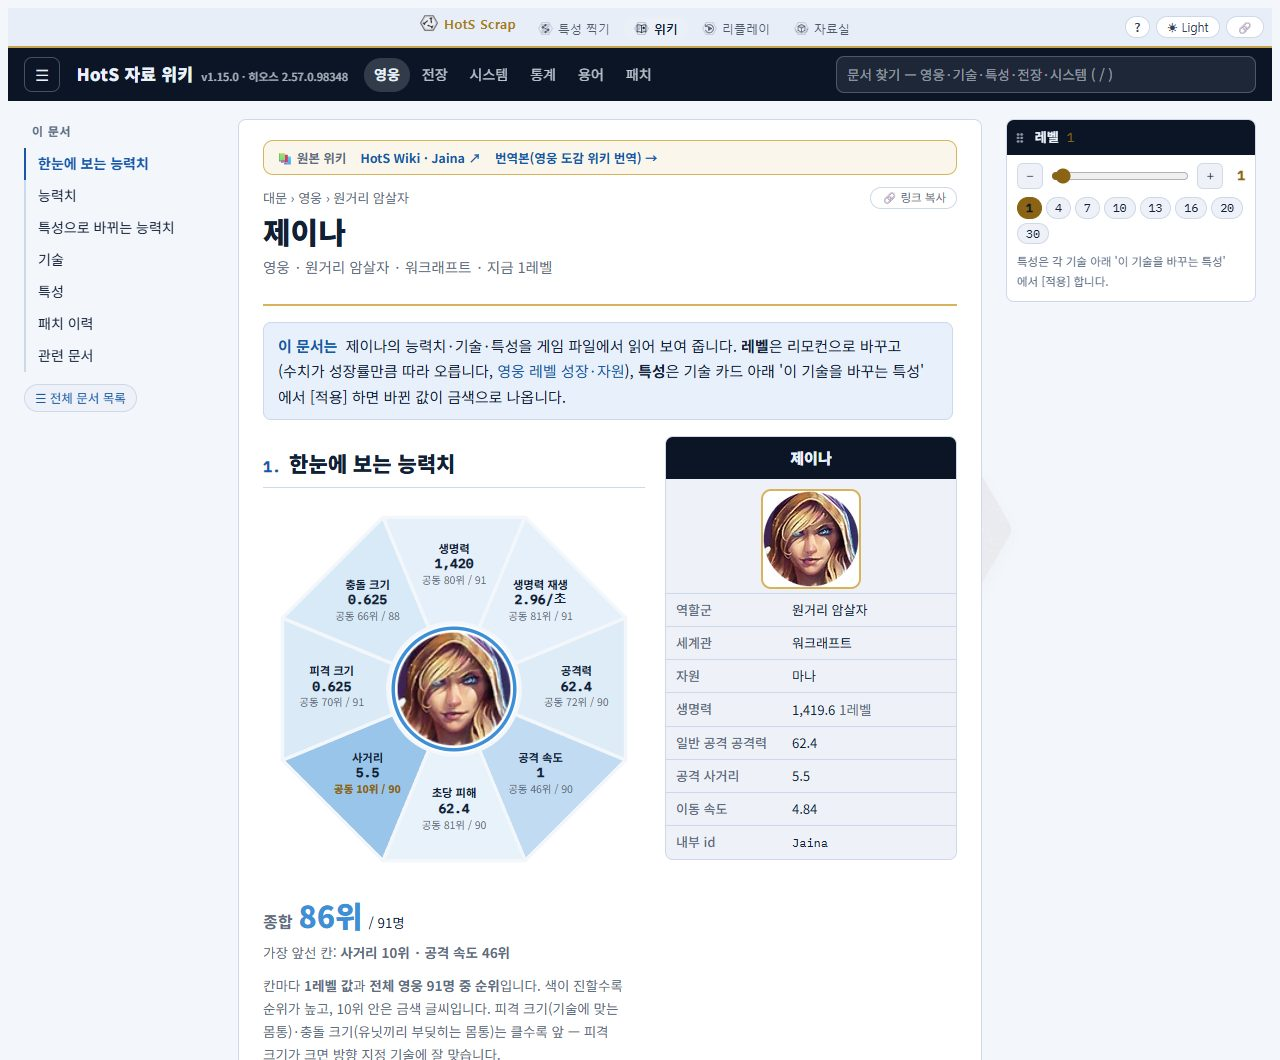
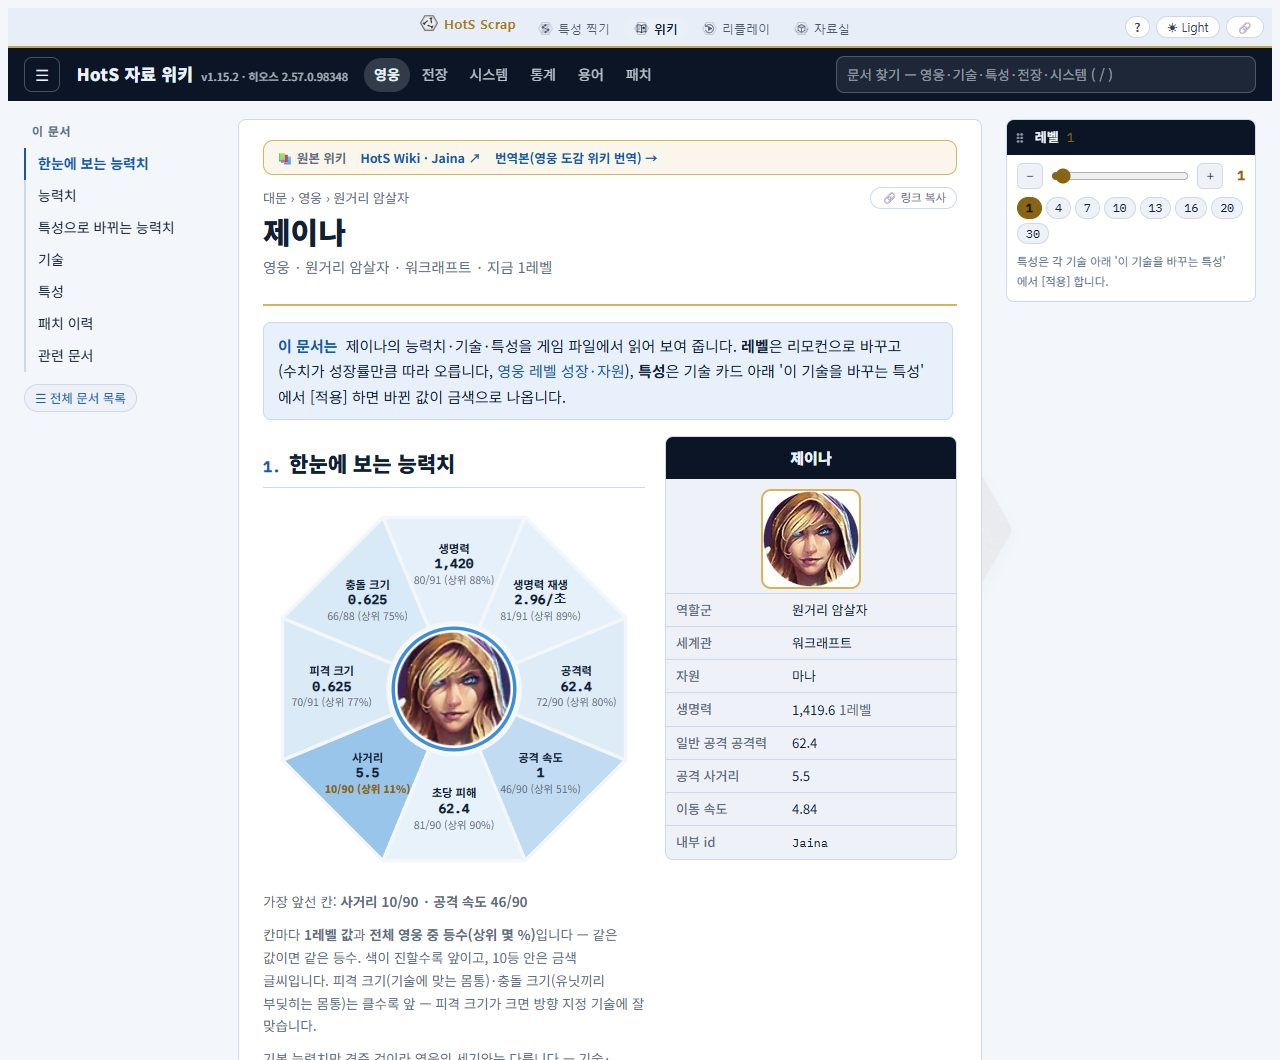
위키 능력치 구절판: 종합 순위 빼고 등수를 '40/90 (상위 44%)' 꼴로

diff --git a/site/wiki/index.html b/site/wiki/index.html
@@ -215,10 +215,7 @@ i.rdot { display:inline-block; width:9px; height:9px; border-radius:50%; backgro
 .radar .lv { font-size:15px; font-weight:800; fill:var(--fg); font-family:var(--f-mono); }
 .radar .lr { font-size:12px; fill:var(--dim); }
 .radar .lr.hi { fill:var(--gold); font-weight:800; }
-.radar .rall { display:flex; align-items:baseline; gap:6px; }
-.radar .rall span { color:var(--dim); font-weight:700; }
-.radar .rall b { font-size:30px; font-weight:900; color:var(--rc, var(--gold)); }
-@media (max-width:720px) { .radar svg { margin:0 auto; } .radar .ln { font-size:16px; } .radar .lv { font-size:18px; } .radar .lr { font-size:14.5px; } }
+@media (max-width:720px) { .radar svg { margin:0 auto; } .radar .ln { font-size:16px; } .radar .lv { font-size:18px; } .radar .lr { font-size:13.5px; } }
 .tops { display:grid; grid-template-columns:repeat(auto-fill,minmax(220px,1fr)); gap:8px; margin:4px 0 6px; }
 .top { border:1px solid var(--line); border-left:4px solid var(--rc); border-radius:var(--r); background:var(--card); padding:8px 10px; display:flex; flex-direction:column; gap:3px; min-width:0; }
 .top .tl { font-size:12px; color:var(--dim); font-weight:600; }
@@ -1612,7 +1609,7 @@ window.KS={score:score,mark:mark,esc:esc};})();
   const HS = () => STROLE ? H.filter(h => (h["역할군"] || "기타") === STROLE) : H;
   /* ── 영웅 한 명의 능력치 구절판 — 가운데 초상화, 둘레 여덟 칸에 능력치·값·전체 중 순위.
      칸 색이 진할수록 순위가 높다. 값은 1레벨(통계 순위표와 같은 셈), 같은 값이면 같은 등수.
-     종합은 칸마다 순위를 0~1로 바꿔 평균 낸 것으로 다시 줄 세운 것 */
+     종합 순위는 두지 않는다 — 능력치만으로 영웅의 세기를 매길 수 없다(사용자 결정 2026-11-12). 등수는 '40/90 (상위 44%)' 꼴 */
   /* 마나·이동 속도·시야는 넣지 않는다 — 이동 속도·시야는 거의 모든 영웅이 같고(공동 1위만 나온다), 마나는 영웅마다 쓰임이 달라 견줄 거리가 못 된다 */
   const RADAR_AX = [["생명력 (1레벨)", "생명력"], ["생명력 재생 (1레벨)", "생명력 재생"], ["일반 공격 공격력 (1레벨)", "공격력"], ["초당 공격", "공격 속도"],
     ["일반 공격 초당 피해 (1레벨)", "초당 피해"], ["공격 사거리", "사거리"], ["피격 반지름", "피격 크기"], ["충돌 반지름", "충돌 크기"]];
@@ -1620,7 +1617,7 @@ window.KS={score:score,mark:mark,esc:esc};})();
   function radarAll() {
     if (RADAR) return RADAR;
     const defs = Object.fromEntries(statDefs().map(([n, f, note, u]) => [n, { f, u: u || "" }]));
-    const by = {}; H.forEach(h => (by[h.id] = { ax: [], p: [] }));
+    const by = {}; H.forEach(h => (by[h.id] = { ax: [] }));
     RADAR_AX.forEach(([n], i) => {
       const d = defs[n];
       const vs = H.map(h => { const v = d ? d.f(h) : null; return typeof v === "number" && isFinite(v) ? { h, v } : null; }).filter(Boolean);
@@ -1630,11 +1627,8 @@ window.KS={score:score,mark:mark,esc:esc};})();
         const tie = vs.filter(y => +y.v.toFixed(3) === +x.v.toFixed(3)).length;
         const p = cnt > 1 ? (cnt - rk) / (cnt - 1) : 1;
         by[x.h.id].ax[i] = { v: x.v, u: d.u, rk, n: cnt, tie, p };
-        by[x.h.id].p.push(p);
       });
     });
-    const avg = H.map(h => { const ps = by[h.id].p; return { id: h.id, a: ps.length ? ps.reduce((x, y) => x + y, 0) / ps.length : 0 }; }).sort((x, y) => y.a - x.a);
-    avg.forEach((x, i) => { by[x.id].all = { rk: 1 + avg.filter(y => y.a > x.a + 1e-9).length, n: avg.length }; });
     return (RADAR = by);
   }
   function heroRadar(h) {
@@ -1647,7 +1641,7 @@ window.KS={score:score,mark:mark,esc:esc};})();
       const d = `M${p1x},${p1y} L${p2x},${p2y} L${p3x},${p3y} L${p4x},${p4y} A${RI},${RI} 0 0 0 ${p1x},${p1y} Z`;
       const [tx, ty] = at(am, (RI + RO * Math.cos(st / 2)) / 2 + 4).map(Number);
       const val = x0 ? `${num(x0.v)}${x0.u}` : "—";
-      const rk = x0 ? (x0.tie > 1 ? `공동 ${x0.rk}위` : `${x0.rk}위`) + ` / ${x0.n}` : "값 없음";
+      const rk = x0 ? `${x0.rk}/${x0.n} (상위 ${Math.max(1, Math.round(x0.rk / x0.n * 100))}%)` : "값 없음";
       return `<path d="${d}" class="cl${x0 ? "" : " nil"}" style="fill-opacity:${x0 ? (0.07 + 0.5 * x0.p).toFixed(2) : 0}"/>`
         + `<text x="${tx}" y="${ty - 16}" class="ln">${esc(lab)}</text><text x="${tx}" y="${ty + 2}" class="lv">${esc(val)}</text>`
         + `<text x="${tx}" y="${ty + 20}" class="lr${x0 && x0.rk <= 10 ? " hi" : ""}">${esc(rk)}</text>`;
@@ -1655,12 +1649,11 @@ window.KS={score:score,mark:mark,esc:esc};})();
     const pic = ICON[String(h["초상화"] || "").toLowerCase()], cid = "rc-" + h.id;
     const face = `<circle cx="${C}" cy="${C}" r="${RI - 6}" class="fr"/>` + (pic ? `<clipPath id="${esc(cid)}"><circle cx="${C}" cy="${C}" r="${RI - 10}"/></clipPath><image href="${esc(pic)}" x="${C - RI + 10}" y="${C - RI + 10}" width="${2 * (RI - 10)}" height="${2 * (RI - 10)}" clip-path="url(#${esc(cid)})"/>` : "");
     const rows = RADAR_AX.map(([, lab], i) => R.ax[i] ? [lab, R.ax[i]] : null).filter(Boolean);
-    const best = rows.slice().sort((a, b) => a[1].rk - b[1].rk).slice(0, 2).map(([l, x]) => `${l} ${x.rk}위`).join(" · ");
+    const best = rows.slice().sort((a, b) => a[1].rk - b[1].rk).slice(0, 2).map(([l, x]) => `${l} ${x.rk}/${x.n}`).join(" · ");
     return `<div class="radar ${rcOf(h["역할군"])}"><svg viewBox="0 0 ${W} ${W}" role="img" aria-label="${esc(h["이름"])} 능력치 구절판">${cells}${face}</svg>
-      <div class="rsum"><div class="rall"><span>종합</span><b>${R.all.rk}위</b><small>/ ${R.all.n}명</small></div>
-        <p class="note">가장 앞선 칸: <b>${esc(best)}</b></p>
-        <p class="note">칸마다 <b>1레벨 값</b>과 <b>전체 영웅 ${R.all.n}명 중 순위</b>입니다. 색이 진할수록 순위가 높고, 10위 안은 금색 글씨입니다. 피격 크기(기술에 맞는 몸통)·충돌 크기(유닛끼리 부딪히는 몸통)는 클수록 앞 — 피격 크기가 크면 방향 지정 기술에 잘 맞습니다.</p>
-        <p class="note"><b>종합</b>은 여덟 칸의 순위를 고르게 섞어 다시 줄 세운 것이라 '센 영웅' 순위가 아닙니다 — 기술·특성은 들어 있지 않습니다.</p>
+      <div class="rsum"><p class="note">가장 앞선 칸: <b>${esc(best)}</b></p>
+        <p class="note">칸마다 <b>1레벨 값</b>과 <b>전체 영웅 중 등수(상위 몇 %)</b>입니다 — 같은 값이면 같은 등수. 색이 진할수록 앞이고, 10등 안은 금색 글씨입니다. 피격 크기(기술에 맞는 몸통)·충돌 크기(유닛끼리 부딪히는 몸통)는 클수록 앞 — 피격 크기가 크면 방향 지정 기술에 잘 맞습니다.</p>
+        <p class="note">기본 능력치만 견준 것이라 영웅의 세기와는 다릅니다 — 기술·특성은 들어 있지 않습니다.</p>
         <p class="note"><a href="#stats">전체 영웅 순위표 ›</a></p></div></div>`;
   }
 

diff --git a/site/guide/index.html b/site/guide/index.html
@@ -257,7 +257,7 @@
   <p class="say">게임 파일(XML·galaxy 스크립트·AI 트리·맵 파일)에서 읽은 내용을 갈래별 문서로 늘어놓았습니다. 값마다 <b>자료</b>(파일 그대로)·<b>추정</b>(계산)·<b>미확인</b> 표시가 붙습니다.</p>
   <ol>
     <li><b>대문</b> — 영웅·전장·시스템·통계·용어·패치 여섯 갈래. 칸 아래 작은 단추로 바로 들어갑니다.</li>
-    <li><b>영웅 문서</b> — 맨 위 <b>한눈에 보는 능력치</b>: 가운데 초상화 둘레 여덟 칸(생명력·생명력 재생·공격력·공격 속도·초당 피해·사거리·피격 크기·충돌 크기)에 값과 전체 중 몇 위인지, 옆에 종합 순위. 그 아래 능력치(0레벨 값 = 패치노트 기준), 기술·특성과 그 세부 효과·범위 그림, 맨 아래 그 영웅의 패치 이력.</li>
+    <li><b>영웅 문서</b> — 맨 위 <b>한눈에 보는 능력치</b>: 가운데 초상화 둘레 여덟 칸(생명력·생명력 재생·공격력·공격 속도·초당 피해·사거리·피격 크기·충돌 크기)에 값과 전체 중 등수(예: 40/90, 상위 44%). 그 아래 능력치(0레벨 값 = 패치노트 기준), 기술·특성과 그 세부 효과·범위 그림, 맨 아래 그 영웅의 패치 이력.</li>
     <li><b>통계</b> — 맨 위 <b>한눈에 보는 1·2·3위</b>(가장 튼튼한·사거리가 긴·공격이 빠른·가장 오래 묶어 두는 영웅 등 8칸), 그 아래 수치마다 영웅 순위표·역할군 비교. 소환물·구조물에만 거는 효과나 아주 짧게 걸리는 효과는 순위에서 뺐습니다.</li>
     <li><b>용어</b> — 기술·특성 세부 칸(지속시간·감속·기절 같은 것)이 무슨 뜻인지, 갈래별로 모았습니다.</li>
     <li><b>패치</b> — 공식 한글 패치 노트와, 판이 바뀔 때 게임 자료에서 직접 찾은 변경(전·후 수치).</li>
@@ -278,8 +278,7 @@
     <figure class="shot" data-shot="w-hero"></figure>
     <ol class="marks" data-shot="w-hero">
       <li><b>원본 위키 줄</b> — 원본(HotS Wiki, 영문)과 번역본의 같은 영웅으로 갑니다.</li>
-      <li><b>한눈에 보는 능력치</b> — 가운데 초상화 둘레 여덟 칸에 1레벨 값과 전체 중 몇 위인지. 색이 진할수록 순위가 높습니다.</li>
-      <li><b>종합 순위</b> — 여덟 칸 순위를 고르게 섞어 다시 줄 세운 것(기술·특성은 빠져 있어 '센 영웅' 순위는 아닙니다).</li>
+      <li><b>한눈에 보는 능력치</b> — 가운데 초상화 둘레 여덟 칸에 1레벨 값과 전체 중 등수(40/90 · 상위 44% 꼴). 색이 진할수록 앞입니다. 기본 능력치만 견준 것이라 영웅의 세기와는 다릅니다.</li>
       <li><b>정보 상자</b> — 역할군·세계관·자원 같은 기본 정보.</li>
     </ol>
   </div>

diff --git a/tools/guide_shots.py b/tools/guide_shots.py
@@ -130,7 +130,7 @@ SHOTS = [
     # 위키 — 영웅 문서는 위키로 합쳤다(2026-11-12). 범위 구경·통계 보기는 도감(herodex) 쪽 화면 그대로
     dict(id="w-home", url="wiki/", marks=["#menu", "#nav", "#q", ".tiles"]),
     dict(id="w-hero", url="wiki/#h.Jaina", size=(1280, 1060), do=[lambda pg: pg.wait_for_timeout(1200)],
-         marks=[".srcbar", ".radar svg", ".radar .rall", "aside.info"]),
+         marks=[".srcbar", ".radar svg", "aside.info"]),
     dict(id="w-stats", url="wiki/#stats", size=(1280, 1200), do=[lambda pg: pg.wait_for_timeout(1500)],
          marks=[".tops", ".sttabs"]),
     dict(id="shapes", url="herodex/shapes.html",

diff --git a/CLAUDE.md b/CLAUDE.md
@@ -75,7 +75,7 @@
   - 이 위키가 못 하는 것은 원래 앱에 남긴다: 범위 구경·칸 통계(herodex), 전장 흐름(maps), 스킨·대사(encyclopedia), 티어표.
 - `site/herodex/` **영웅 도감** — 게임 원본 XML 에서 직접 뽑은 기술·특성 상세.
   - **2026-11-12 위키로 합침**: `herodex/index.html` 은 들어오자마자 `../wiki/#h.<영웅>` 으로 넘긴다(`?old=1` 이면 예전 화면). 허브 apps.json 에서도 뺐다. 범위 구경(`shapes.html`)·칸 통계(`stats.html`)는 위키에 없는 도구라 그대로 쓴다. 자료(`site/data/herodex/`)도 이 둘과 번역 도감이 읽으므로 그대로 만든다.
-  - 위키 문서 맨 위 `srcBar` = 원본(heroesofthestorm.fandom.com, 영문 이름은 `data/builds/index.json` 의 name_en)·번역본(`encyclopedia/?hero=<id>` — 번역 도감이 이 주소로 영웅을 바로 연다). 영웅 문서 맨 위 "한눈에 보는 능력치" = `heroRadar`(구절판 여덟 칸, 1레벨 값·전체 중 순위, 종합 순위).
+  - 위키 문서 맨 위 `srcBar` = 원본(heroesofthestorm.fandom.com, 영문 이름은 `data/builds/index.json` 의 name_en)·번역본(`encyclopedia/?hero=<id>` — 번역 도감이 이 주소로 영웅을 바로 연다). 영웅 문서 맨 위 "한눈에 보는 능력치" = `heroRadar`(구절판 여덟 칸, 1레벨 값·'40/90 (상위 44%)' 꼴 등수. 종합 순위는 두지 않음 — 사용자 결정 2026-11-12).
   자료는 `site/data/herodex/`(목록 1개 + 영웅마다 1개, 평균 16KB) — 화면은 **고른 영웅 하나만** 받는다.
   주소에 `?hero=` 가 없으면 **영웅 고르는 첫 화면**(역할군별 얼굴판)이다 — 들어오자마자 첫 영웅이
   펼쳐져 있으면 "여기가 어디지" 가 된다. 얼굴·역할군·기술 수는 이미 받는 `index.json` 에 다 있어
